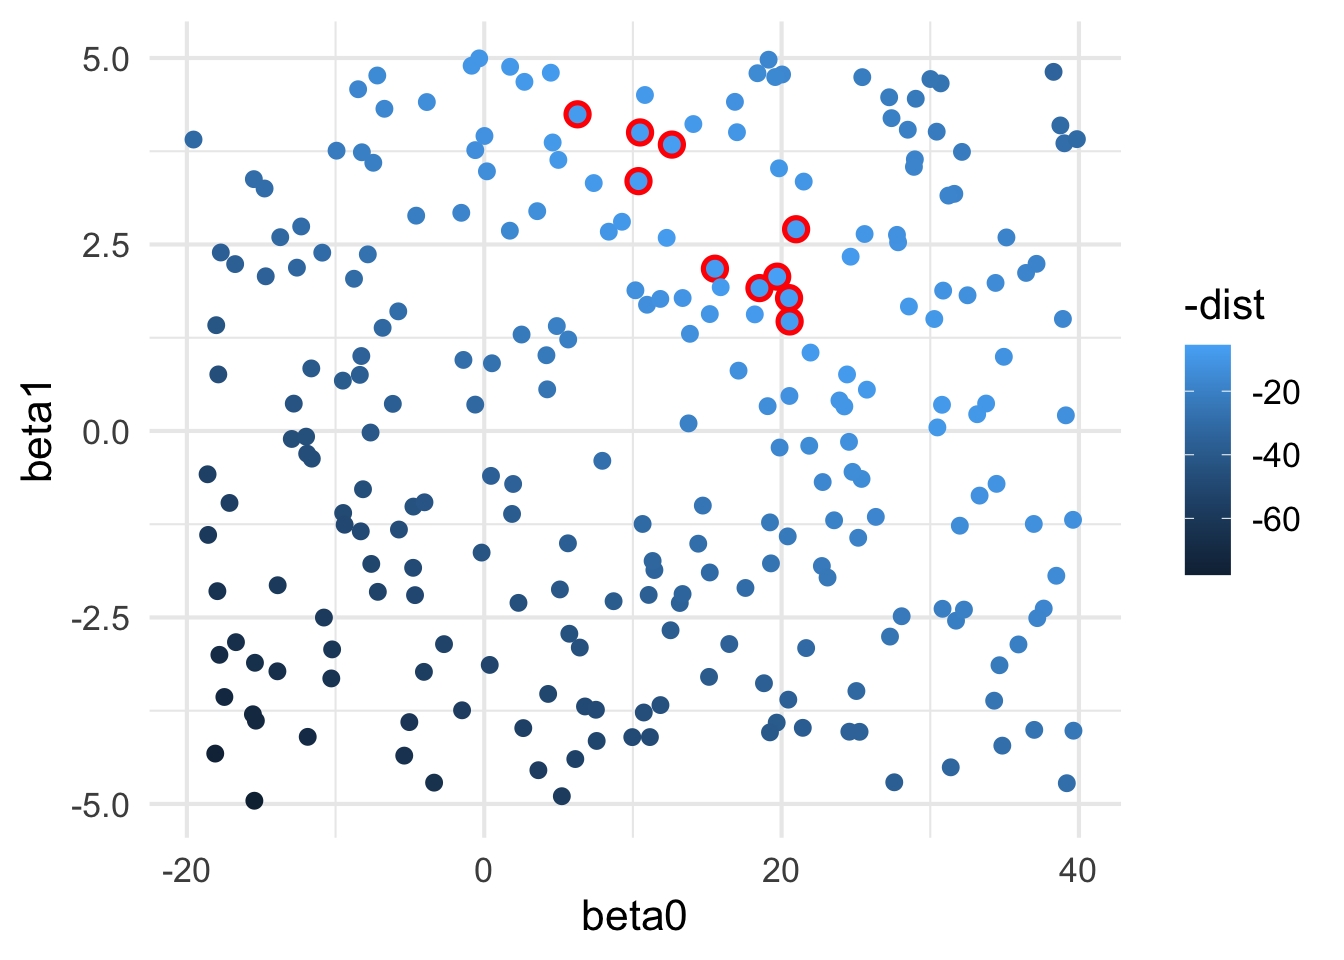
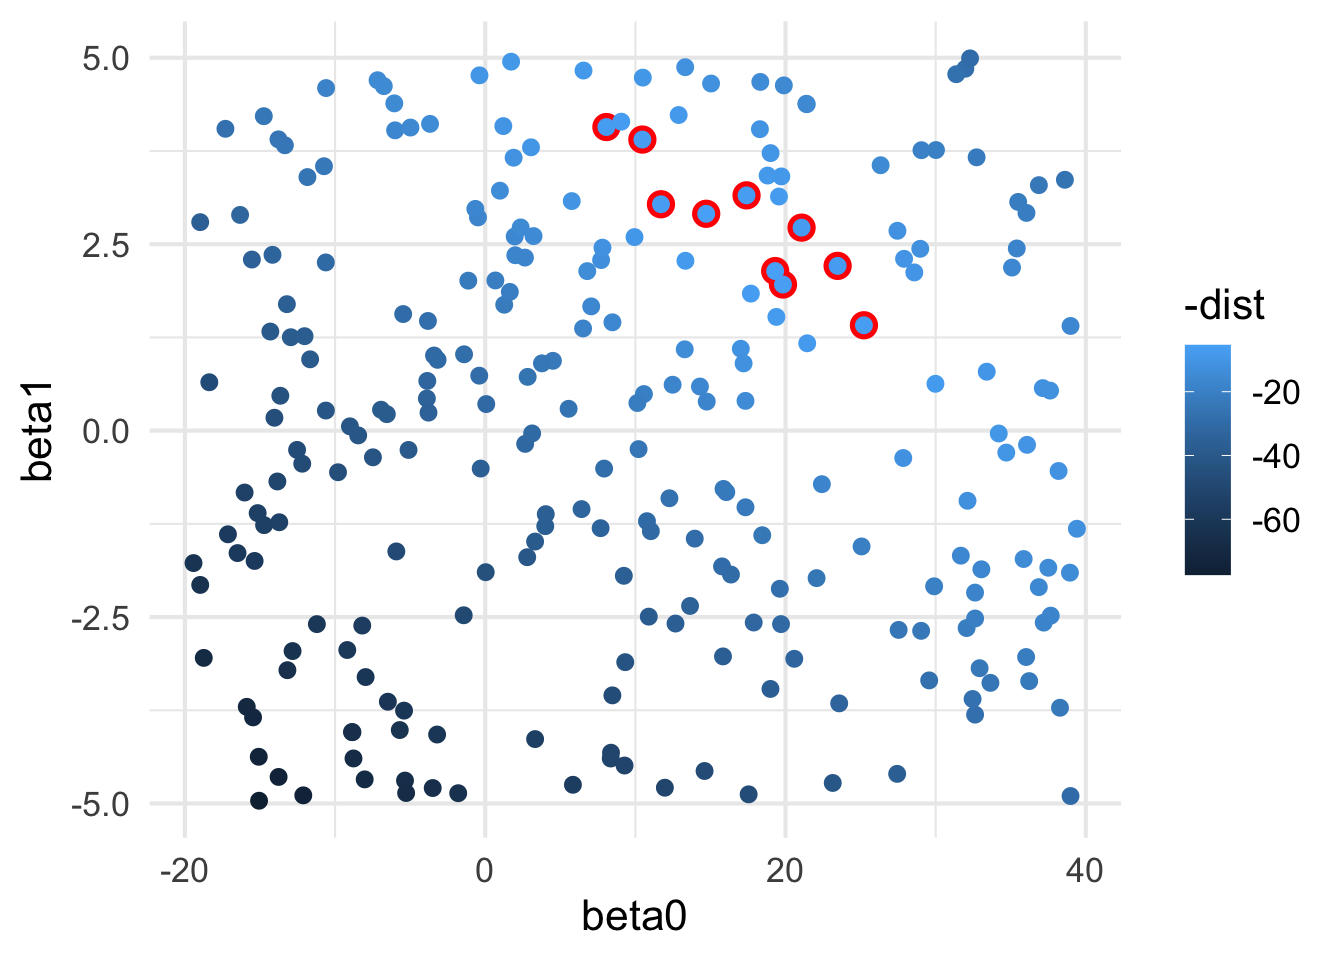
built for latest content

diff --git a/docs/narrative.html b/docs/narrative.html
@@ -184,13 +184,13 @@ y_{ij} = \beta_0 + \beta_1 x_{i} + \epsilon_j
 <span id="cb3-2"><a href="#cb3-2" aria-hidden="true" tabindex="-1"></a>                      <span class="at">beta1 =</span> <span class="fu">runif</span>(<span class="dv">250</span>, <span class="sc">-</span><span class="dv">5</span>, <span class="dv">5</span>))</span>
 <span id="cb3-3"><a href="#cb3-3" aria-hidden="true" tabindex="-1"></a><span class="fu">summary</span>( models )</span></code></pre></div><button title="Copy to Clipboard" class="code-copy-button"><i class="bi"></i></button></div>
 <div class="cell-output cell-output-stdout">
-<pre><code>     beta0             beta1        
- Min.   :-19.554   Min.   :-4.9570  
- 1st Qu.: -4.635   1st Qu.:-2.3057  
- Median : 11.234   Median : 0.2171  
- Mean   : 10.745   Mean   : 0.1361  
- 3rd Qu.: 24.967   3rd Qu.: 2.5970  
- Max.   : 39.863   Max.   : 4.9949  </code></pre>
+<pre><code>     beta0             beta1         
+ Min.   :-19.427   Min.   :-4.96299  
+ 1st Qu.: -5.634   1st Qu.:-2.15912  
+ Median :  8.216   Median : 0.25542  
+ Mean   :  8.882   Mean   : 0.08405  
+ 3rd Qu.: 21.305   3rd Qu.: 2.44190  
+ Max.   : 39.405   Max.   : 4.99179  </code></pre>
 </div>
 </div>
 <p>We can plot these and the original data and all these randomly defined models.</p>
@@ -241,13 +241,13 @@ y_{ij} = \beta_0 + \beta_1 x_{i} + \epsilon_j
 <span id="cb7-7"><a href="#cb7-7" aria-hidden="true" tabindex="-1"></a>}</span>
 <span id="cb7-8"><a href="#cb7-8" aria-hidden="true" tabindex="-1"></a><span class="fu">head</span>( models )</span></code></pre></div><button title="Copy to Clipboard" class="code-copy-button"><i class="bi"></i></button></div>
 <div class="cell-output cell-output-stdout">
-<pre><code>      beta0       beta1      dist
-1 27.835820  2.52930110 11.317012
-2 30.478793  0.04739209  9.124285
-3 21.426543 -3.97952569 37.722378
-4 -9.509767  0.67482257 38.294488
-5 -7.461769  3.59551132 20.293648
-6 25.427630  4.74321268 21.361474</code></pre>
+<pre><code>      beta0      beta1      dist
+1  32.72714  3.6649825 22.007072
+2  32.62498 -3.8083793 27.759799
+3  21.44344  1.1711823  7.721005
+4  17.88130 -2.5730585 32.154006
+5  16.36595 -1.9299389 29.547134
+6 -16.02425 -0.8301046 53.500356</code></pre>
 </div>
 </div>
 <p>If we look through these models, we can see which are better than others by sorting in increasing squared distance.</p>
@@ -864,42 +864,42 @@ y = \beta_0 + \beta_1 x_1 + \beta_2 x_2 + \beta_3 x_3 + \epsilon
 </tr>
 <tr class="even">
 <td style="text-align: left;">Ozone ~ Temp + Wind + Solar + 1 Random Variables</td>
-<td style="text-align: right;">0.6071</td>
+<td style="text-align: right;">0.6070</td>
 <td style="text-align: right;">0e+00</td>
 </tr>
 <tr class="odd">
 <td style="text-align: left;">Ozone ~ Temp + Wind + Solar + 2 Random Variables</td>
-<td style="text-align: right;">0.6075</td>
+<td style="text-align: right;">0.6071</td>
 <td style="text-align: right;">0e+00</td>
 </tr>
 <tr class="even">
 <td style="text-align: left;">Ozone ~ Temp + Wind + Solar + 3 Random Variables</td>
-<td style="text-align: right;">0.6267</td>
+<td style="text-align: right;">0.6100</td>
 <td style="text-align: right;">0e+00</td>
 </tr>
 <tr class="odd">
 <td style="text-align: left;">Ozone ~ Temp + Wind + Solar + 4 Random Variables</td>
-<td style="text-align: right;">0.6322</td>
+<td style="text-align: right;">0.6121</td>
 <td style="text-align: right;">0e+00</td>
 </tr>
 <tr class="even">
 <td style="text-align: left;">Ozone ~ Temp + Wind + Solar + 5 Random Variables</td>
-<td style="text-align: right;">0.6322</td>
+<td style="text-align: right;">0.6136</td>
 <td style="text-align: right;">0e+00</td>
 </tr>
 <tr class="odd">
 <td style="text-align: left;">Ozone ~ Temp + Wind + Solar + 6 Random Variables</td>
-<td style="text-align: right;">0.6346</td>
+<td style="text-align: right;">0.6138</td>
 <td style="text-align: right;">0e+00</td>
 </tr>
 <tr class="even">
 <td style="text-align: left;">Ozone ~ Temp + Wind + Solar + 7 Random Variables</td>
-<td style="text-align: right;">0.6359</td>
+<td style="text-align: right;">0.6143</td>
 <td style="text-align: right;">0e+00</td>
 </tr>
 <tr class="odd">
 <td style="text-align: left;">Ozone ~ Temp + Wind + Solar + 8 Random Variables</td>
-<td style="text-align: right;">0.6374</td>
+<td style="text-align: right;">0.6187</td>
 <td style="text-align: right;">0e+00</td>
 </tr>
 </tbody>
@@ -952,91 +952,91 @@ AIC = -2 \ln L + 2p
 <td style="text-align: left;">Ozone ~ Temp</td>
 <td style="text-align: right;">0.488</td>
 <td style="text-align: right;">1067.706</td>
-<td style="text-align: right;">69.013</td>
+<td style="text-align: right;">68.989</td>
 </tr>
 <tr class="even">
 <td style="text-align: left;">Ozone ~ Wind</td>
 <td style="text-align: right;">0.362</td>
 <td style="text-align: right;">1093.187</td>
-<td style="text-align: right;">94.494</td>
+<td style="text-align: right;">94.470</td>
 </tr>
 <tr class="odd">
 <td style="text-align: left;">Ozone ~ Solar</td>
 <td style="text-align: right;">0.121</td>
 <td style="text-align: right;">1083.714</td>
-<td style="text-align: right;">85.021</td>
+<td style="text-align: right;">84.997</td>
 </tr>
 <tr class="even">
 <td style="text-align: left;">Ozone ~ Temp + Wind</td>
 <td style="text-align: right;">0.569</td>
 <td style="text-align: right;">1049.741</td>
-<td style="text-align: right;">51.048</td>
+<td style="text-align: right;">51.024</td>
 </tr>
 <tr class="odd">
 <td style="text-align: left;">Ozone ~ Temp + Solar</td>
 <td style="text-align: right;">0.510</td>
 <td style="text-align: right;">1020.820</td>
-<td style="text-align: right;">22.126</td>
+<td style="text-align: right;">22.103</td>
 </tr>
 <tr class="even">
 <td style="text-align: left;">Ozone ~ Wind + Solar</td>
 <td style="text-align: right;">0.449</td>
 <td style="text-align: right;">1033.816</td>
-<td style="text-align: right;">35.122</td>
+<td style="text-align: right;">35.098</td>
 </tr>
 <tr class="odd">
 <td style="text-align: left;">Ozone ~ Temp + Wind + Solar</td>
 <td style="text-align: right;">0.606</td>
 <td style="text-align: right;">998.717</td>
-<td style="text-align: right;">0.024</td>
+<td style="text-align: right;">0.000</td>
 </tr>
 <tr class="even">
 <td style="text-align: left;">Ozone ~ Temp + Wind + Solar + 1 Random Variables</td>
 <td style="text-align: right;">0.607</td>
-<td style="text-align: right;">1000.379</td>
-<td style="text-align: right;">1.686</td>
+<td style="text-align: right;">1000.398</td>
+<td style="text-align: right;">1.681</td>
 </tr>
 <tr class="odd">
 <td style="text-align: left;">Ozone ~ Temp + Wind + Solar + 2 Random Variables</td>
 <td style="text-align: right;">0.607</td>
-<td style="text-align: right;">1002.274</td>
-<td style="text-align: right;">3.580</td>
+<td style="text-align: right;">1002.368</td>
+<td style="text-align: right;">3.650</td>
 </tr>
 <tr class="even">
 <td style="text-align: left;">Ozone ~ Temp + Wind + Solar + 3 Random Variables</td>
-<td style="text-align: right;">0.627</td>
-<td style="text-align: right;">998.693</td>
-<td style="text-align: right;">0.000</td>
+<td style="text-align: right;">0.610</td>
+<td style="text-align: right;">1003.543</td>
+<td style="text-align: right;">4.826</td>
 </tr>
 <tr class="odd">
 <td style="text-align: left;">Ozone ~ Temp + Wind + Solar + 4 Random Variables</td>
-<td style="text-align: right;">0.632</td>
-<td style="text-align: right;">999.060</td>
-<td style="text-align: right;">0.366</td>
+<td style="text-align: right;">0.612</td>
+<td style="text-align: right;">1004.965</td>
+<td style="text-align: right;">6.248</td>
 </tr>
 <tr class="even">
 <td style="text-align: left;">Ozone ~ Temp + Wind + Solar + 5 Random Variables</td>
-<td style="text-align: right;">0.632</td>
-<td style="text-align: right;">1001.046</td>
-<td style="text-align: right;">2.352</td>
+<td style="text-align: right;">0.614</td>
+<td style="text-align: right;">1006.519</td>
+<td style="text-align: right;">7.801</td>
 </tr>
 <tr class="odd">
 <td style="text-align: left;">Ozone ~ Temp + Wind + Solar + 6 Random Variables</td>
-<td style="text-align: right;">0.635</td>
-<td style="text-align: right;">1002.326</td>
-<td style="text-align: right;">3.632</td>
+<td style="text-align: right;">0.614</td>
+<td style="text-align: right;">1008.454</td>
+<td style="text-align: right;">9.737</td>
 </tr>
 <tr class="even">
 <td style="text-align: left;">Ozone ~ Temp + Wind + Solar + 7 Random Variables</td>
-<td style="text-align: right;">0.636</td>
-<td style="text-align: right;">1003.935</td>
-<td style="text-align: right;">5.241</td>
+<td style="text-align: right;">0.614</td>
+<td style="text-align: right;">1010.321</td>
+<td style="text-align: right;">11.604</td>
 </tr>
 <tr class="odd">
 <td style="text-align: left;">Ozone ~ Temp + Wind + Solar + 8 Random Variables</td>
-<td style="text-align: right;">0.637</td>
-<td style="text-align: right;">1005.477</td>
-<td style="text-align: right;">6.784</td>
+<td style="text-align: right;">0.619</td>
+<td style="text-align: right;">1011.038</td>
+<td style="text-align: right;">12.321</td>
 </tr>
 </tbody>
 </table>

diff --git a/docs/slides.html b/docs/slides.html
@@ -245,13 +245,13 @@ y = \beta_0 + \beta_1 x_1 + \epsilon
 <span id="cb1-2"><a href=""></a>                      <span class="at">beta1 =</span> <span class="fu">runif</span>(<span class="dv">250</span>, <span class="sc">-</span><span class="dv">5</span>, <span class="dv">5</span>))</span>
 <span id="cb1-3"><a href=""></a><span class="fu">summary</span>( models )</span></code></pre></div><button title="Copy to Clipboard" class="code-copy-button"><i class="bi"></i></button></div>
 <div class="cell-output cell-output-stdout">
-<pre><code>     beta0             beta1        
- Min.   :-19.989   Min.   :-4.9836  
- 1st Qu.: -8.356   1st Qu.:-2.6163  
- Median :  5.012   Median :-0.3976  
- Mean   :  7.260   Mean   :-0.2074  
- 3rd Qu.: 21.586   3rd Qu.: 2.5052  
- Max.   : 39.597   Max.   : 4.9972  </code></pre>
+<pre><code>     beta0             beta1         
+ Min.   :-19.188   Min.   :-4.96273  
+ 1st Qu.: -4.465   1st Qu.:-2.51419  
+ Median : 10.441   Median :-0.03530  
+ Mean   : 10.979   Mean   : 0.01682  
+ 3rd Qu.: 26.292   3rd Qu.: 2.29662  
+ Max.   : 39.856   Max.   : 4.89018  </code></pre>
 </div>
 </div>
 </div><div class="column" style="width:50%;">
@@ -294,13 +294,13 @@ y = \beta_0 + \beta_1 x_1 + \epsilon
 <span id="cb4-7"><a href=""></a>}</span>
 <span id="cb4-8"><a href=""></a><span class="fu">head</span>( models )</span></code></pre></div><button title="Copy to Clipboard" class="code-copy-button"><i class="bi"></i></button></div>
 <div class="cell-output cell-output-stdout">
-<pre><code>       beta0       beta1      dist
-1  22.060451  2.72631756  7.483750
-2 -17.233396 -0.07856743 50.266384
-3   1.216781  3.89601527 11.096599
-4  10.779940  0.86650781 17.736680
-5  28.936595  1.19207218  7.657940
-6  20.469961  2.10047856  5.461091</code></pre>
+<pre><code>      beta0       beta1      dist
+1 32.075061 -0.96873753 12.600168
+2 28.011353  2.13271803  9.685172
+3  5.431701  3.93397809  7.951093
+4 33.343581 -0.96402982 12.136166
+5 18.971824  4.22441688 12.590057
+6  4.277446 -0.01524741 29.029150</code></pre>
 </div>
 </div>
 </section>
@@ -921,35 +921,35 @@ y = \beta_0 + \beta_1 x_1 + \epsilon
 <tbody>
 <tr class="odd">
 <td style="text-align: left;">Ozone ~ Temp + Wind + Solar + 1 Random Variables</td>
-<td style="text-align: left;">0.6064</td>
+<td style="text-align: left;">0.6075</td>
 </tr>
 <tr class="even">
 <td style="text-align: left;">Ozone ~ Temp + Wind + Solar + 2 Random Variables</td>
-<td style="text-align: left;">0.6100</td>
-</tr>
-<tr class="odd">
-<td style="text-align: left;">Ozone ~ Temp + Wind + Solar + 3 Random Variables</td>
-<td style="text-align: left;">0.6102</td>
-</tr>
-<tr class="even">
-<td style="text-align: left;">Ozone ~ Temp + Wind + Solar + 4 Random Variables</td>
 <td style="text-align: left;">0.6111</td>
 </tr>
 <tr class="odd">
+<td style="text-align: left;">Ozone ~ Temp + Wind + Solar + 3 Random Variables</td>
+<td style="text-align: left;">0.6112</td>
+</tr>
+<tr class="even">
+<td style="text-align: left;">Ozone ~ Temp + Wind + Solar + 4 Random Variables</td>
+<td style="text-align: left;">0.6280</td>
+</tr>
+<tr class="odd">
 <td style="text-align: left;">Ozone ~ Temp + Wind + Solar + 5 Random Variables</td>
-<td style="text-align: left;">0.6128</td>
+<td style="text-align: left;">0.6293</td>
 </tr>
 <tr class="even">
 <td style="text-align: left;">Ozone ~ Temp + Wind + Solar + 6 Random Variables</td>
-<td style="text-align: left;">0.6203</td>
+<td style="text-align: left;">0.6298</td>
 </tr>
 <tr class="odd">
 <td style="text-align: left;">Ozone ~ Temp + Wind + Solar + 7 Random Variables</td>
-<td style="text-align: left;">0.6211</td>
+<td style="text-align: left;">0.6329</td>
 </tr>
 <tr class="even">
 <td style="text-align: left;">Ozone ~ Temp + Wind + Solar + 8 Random Variables</td>
-<td style="text-align: left;">0.6237</td>
+<td style="text-align: left;">0.6465</td>
 </tr>
 </tbody>
 </table>
@@ -1039,51 +1039,51 @@ y = \beta_0 + \beta_1 x_1 + \epsilon
 </tr>
 <tr class="even">
 <td style="text-align: left;">Ozone ~ Temp + Wind + Solar + 1 Random Variables</td>
-<td style="text-align: right;">0.606</td>
-<td style="text-align: right;">1000.571</td>
-<td style="text-align: right;">1.854</td>
+<td style="text-align: right;">0.608</td>
+<td style="text-align: right;">1000.257</td>
+<td style="text-align: right;">1.540</td>
 </tr>
 <tr class="odd">
 <td style="text-align: left;">Ozone ~ Temp + Wind + Solar + 2 Random Variables</td>
-<td style="text-align: right;">0.610</td>
-<td style="text-align: right;">1001.541</td>
-<td style="text-align: right;">2.824</td>
+<td style="text-align: right;">0.611</td>
+<td style="text-align: right;">1001.230</td>
+<td style="text-align: right;">2.513</td>
 </tr>
 <tr class="even">
 <td style="text-align: left;">Ozone ~ Temp + Wind + Solar + 3 Random Variables</td>
-<td style="text-align: right;">0.610</td>
-<td style="text-align: right;">1003.510</td>
-<td style="text-align: right;">4.793</td>
+<td style="text-align: right;">0.611</td>
+<td style="text-align: right;">1003.198</td>
+<td style="text-align: right;">4.481</td>
 </tr>
 <tr class="odd">
 <td style="text-align: left;">Ozone ~ Temp + Wind + Solar + 4 Random Variables</td>
-<td style="text-align: right;">0.611</td>
-<td style="text-align: right;">1005.229</td>
-<td style="text-align: right;">6.512</td>
+<td style="text-align: right;">0.628</td>
+<td style="text-align: right;">1000.323</td>
+<td style="text-align: right;">1.606</td>
 </tr>
 <tr class="even">
 <td style="text-align: left;">Ozone ~ Temp + Wind + Solar + 5 Random Variables</td>
-<td style="text-align: right;">0.613</td>
-<td style="text-align: right;">1006.748</td>
-<td style="text-align: right;">8.031</td>
+<td style="text-align: right;">0.629</td>
+<td style="text-align: right;">1001.917</td>
+<td style="text-align: right;">3.200</td>
 </tr>
 <tr class="odd">
 <td style="text-align: left;">Ozone ~ Temp + Wind + Solar + 6 Random Variables</td>
-<td style="text-align: right;">0.620</td>
-<td style="text-align: right;">1006.591</td>
-<td style="text-align: right;">7.874</td>
+<td style="text-align: right;">0.630</td>
+<td style="text-align: right;">1003.766</td>
+<td style="text-align: right;">5.049</td>
 </tr>
 <tr class="even">
 <td style="text-align: left;">Ozone ~ Temp + Wind + Solar + 7 Random Variables</td>
-<td style="text-align: right;">0.621</td>
-<td style="text-align: right;">1008.358</td>
-<td style="text-align: right;">9.641</td>
+<td style="text-align: right;">0.633</td>
+<td style="text-align: right;">1004.835</td>
+<td style="text-align: right;">6.118</td>
 </tr>
 <tr class="odd">
 <td style="text-align: left;">Ozone ~ Temp + Wind + Solar + 8 Random Variables</td>
-<td style="text-align: right;">0.624</td>
-<td style="text-align: right;">1009.585</td>
-<td style="text-align: right;">10.868</td>
+<td style="text-align: right;">0.647</td>
+<td style="text-align: right;">1002.641</td>
+<td style="text-align: right;">3.924</td>
 </tr>
 </tbody>
 </table>
